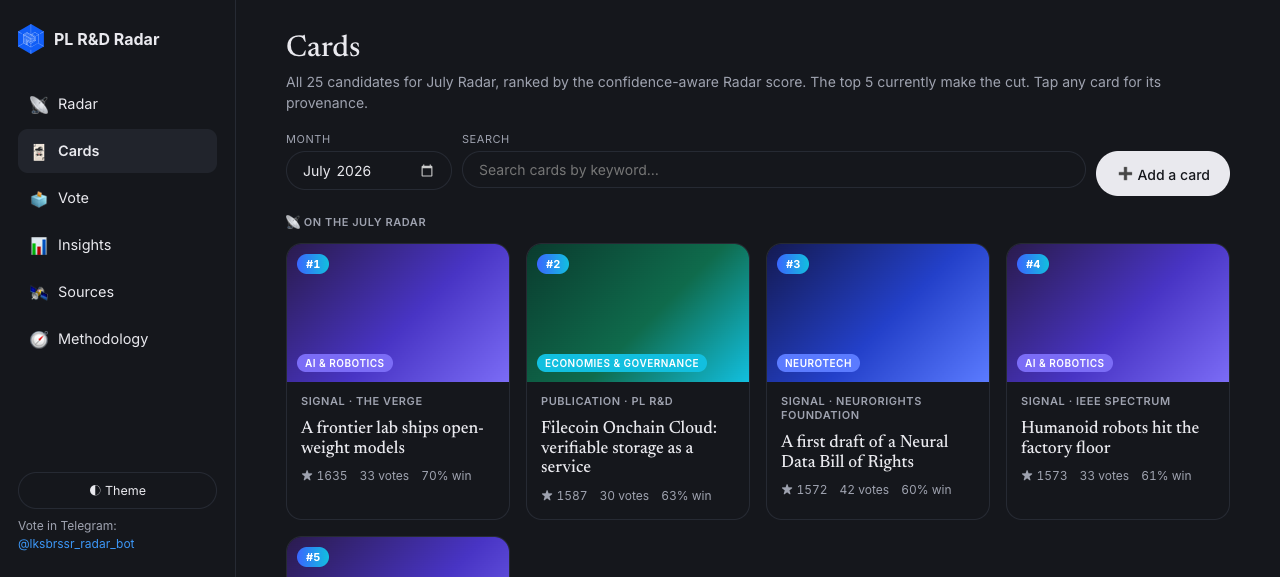
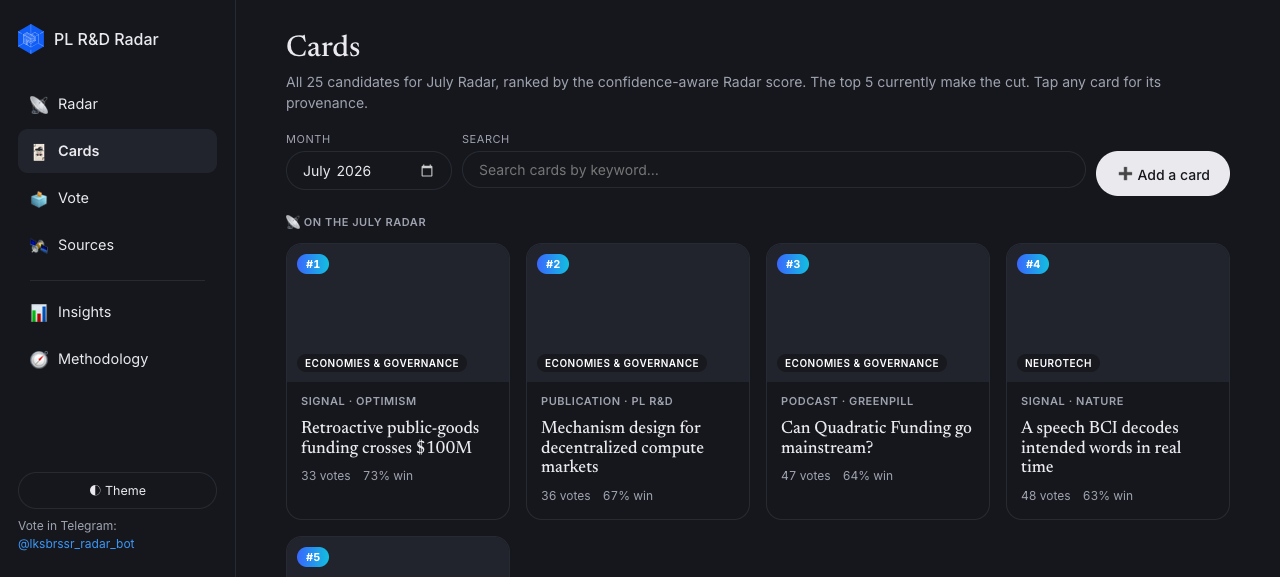
polish(web): sources/radar notices, nav order, cards & methodology cleanup
- Brand wordmark no longer bold.
- Nav: move Insights + Methodology below a subtle divider (less prominent).
- Sources: public-notice is plain text under the heading (no box/emoji/bold),
  shortened to 'Any content pulled from these sources may be surfaced to an
  external audience on the Radar.'; add a horizontal divider before proprietary
  sources; '# in pool' -> '# in current pool'.
- Sources: the 'Add a card or source' tile is now one full-width clickable
  banner (visually distinct from a source), dropped the 'duplicates are caught'
  line.
- Radar: 'Coming soon' lens notice is plain text, not a boxed button.
- Cards: remove focus-area color-coding (neutral media + area chip) and the
  unintuitive Elo (star) number; keep votes + win rate.
- Methodology deep-dive modals: stack tiles as full-width rows instead of two
  columns (fixes the 'settled' appearing to belong under 'balanced composition'
  in the cut modal); update stale copy that referenced the removed toggle.

diff --git a/src/http/dashboard.ts b/src/http/dashboard.ts
@@ -59,7 +59,7 @@ export function renderDashboard(): string {
     display:flex;flex-direction:column;gap:6px;position:sticky;top:0;height:100vh;}
   .brand{display:flex;align-items:center;gap:10px;margin-bottom:22px;}
   .brand .logo{width:26px;height:auto;flex:none;display:block;}
-  .brand .wm{font-weight:700;letter-spacing:0;font-size:16px;}
+  .brand .wm{font-weight:500;letter-spacing:0;font-size:16px;}
   .nav{display:flex;flex-direction:column;gap:3px;}
   .nav button{display:flex;align-items:center;gap:10px;width:100%;text-align:left;
     background:none;border:none;color:var(--ink);padding:10px 12px;border-radius:10px;
@@ -67,6 +67,7 @@ export function renderDashboard(): string {
   .nav button:hover{background:var(--gray-50);}
   .nav button.active{background:var(--gray-200);font-weight:600;}
   .nav .ic{width:18px;text-align:center;}
+  .navgap{height:1px;background:var(--line);margin:10px 12px 6px;}
   .hamb{display:none;margin-left:auto;background:none;border:1px solid var(--line);border-radius:10px;
     width:40px;height:40px;cursor:pointer;color:var(--ink);font-size:18px;line-height:1;
     align-items:center;justify-content:center;}
@@ -311,10 +312,12 @@ export function renderDashboard(): string {
     background:linear-gradient(180deg,rgba(255,255,255,.15),rgba(255,255,255,.35));color:var(--muted);font-size:12.5px;font-weight:600;}
   html.dark .locktile .lockover{background:linear-gradient(180deg,rgba(20,22,28,.15),rgba(20,22,28,.45));}
   .locktile .lockover .lk{font-size:20px;}
-  .addsrc{border:1.5px dashed var(--line);background:transparent;border-radius:16px;padding:18px 20px;display:flex;flex-direction:column;justify-content:center;}
+  .addsrc{display:block;width:100%;text-align:left;font-family:inherit;color:inherit;border:1.5px dashed var(--line);background:transparent;border-radius:16px;padding:20px 24px;margin:6px 0 2px;cursor:pointer;transition:border-color .12s,background .12s;}
+  .addsrc:hover{border-color:var(--muted);background:var(--gray-50);}
   .addsrc h3{font-size:18px;margin-bottom:6px;}
-  .addsrc p{font-size:13px;color:var(--muted);margin:0 0 14px;}
-  .addsrc .btn{align-self:flex-start;cursor:pointer;border:none;}
+  .addsrc p{font-size:13px;color:var(--muted);margin:0 0 14px;max-width:52ch;}
+  .addsrc .btn{display:inline-block;border:none;}
+  .srcdivider{border:none;border-top:1px solid var(--line);margin:30px 0 0;}
   /* cards view */
   .cardsec{margin-bottom:26px;}
   .cardsec .kicker{display:block;margin-bottom:12px;}
@@ -342,7 +345,7 @@ export function renderDashboard(): string {
   .mformula{font-family:ui-monospace,SFMono-Regular,Menlo,monospace;background:var(--gray-50);
     border:1px solid var(--line);border-radius:12px;padding:15px 18px;font-size:15px;overflow-x:auto;margin:14px 0;text-align:center;}
   .mformula b{color:var(--blue);font-weight:600;}
-  .mgrid{display:grid;grid-template-columns:repeat(auto-fit,minmax(220px,1fr));gap:14px;}
+  .mgrid{display:grid;grid-template-columns:1fr;gap:12px;}
   .mtile{background:var(--gray-50);border:1px solid var(--line);border-radius:16px;padding:16px 18px;}
   .mtile .ico{font-size:22px;margin-bottom:8px;}
   .mtile h4{font-size:16px;margin-bottom:5px;}
@@ -467,8 +470,9 @@ export function renderDashboard(): string {
       <button data-route="radar"><span class="ic">📡</span> Radar</button>
       <button data-route="cards"><span class="ic">🃏</span> Cards</button>
       <button data-route="vote"><span class="ic">🗳️</span> Vote</button>
-      <button data-route="data"><span class="ic">📊</span> Insights</button>
       <button data-route="sources"><span class="ic">🛰️</span> Sources</button>
+      <div class="navgap"></div>
+      <button data-route="data"><span class="ic">📊</span> Insights</button>
       <button data-route="method"><span class="ic">🧭</span> Methodology</button>
     </nav>
     <div class="side-foot">
@@ -596,7 +600,7 @@ function renderRadar(){
     '<div class="controls">'+
       '<div class="field"><label>Month</label><input type="month" id="selMonth" value="'+esc(state.edition)+'" min="'+esc(oldest)+'" max="'+esc(newest)+'"></div>'+
     '</div>'+
-    '<div class="soon"><span class="soon-ic">🔒</span><div><b>Coming soon</b> — filter the Radar for what people with a given profile (role &amp; interests) surfaced.</div></div>'+
+    '<p class="lead" style="margin-top:-6px">Coming soon — filter the Radar for what people with a given profile (role &amp; interests) surfaced.</p>'+
     cutToggle()+
     '<div id="radarMount"></div>'+
     '<p class="lead" style="margin-top:14px">Showing the top '+((state.radar&&state.radar.items.length)||0)+' of '+((state.radar&&state.radar.poolSize)||0)+' candidates'+(curEd.current?' still in the running this month.':' from that edition.')+'</p>'+
@@ -949,11 +953,11 @@ function renderSources(){
       var home = s.homepage ? '<a href="'+esc(s.homepage)+'" target="_blank" rel="noopener">Visit →</a>' : '<span></span>';
       return '<div class="srccard"><div class="top"><h3>'+esc(s.name)+'</h3><span class="badge-int badge-pub">public</span></div>'+
         '<p>'+esc(s.description)+'</p>'+
-        '<div class="foot">'+home+'<span class="n muted">'+s.cards+' in pool</span></div></div>';
+        '<div class="foot">'+home+'<span class="n muted">'+s.cards+' in current pool</span></div></div>';
     }).join('');
-    var add = '<div class="addsrc"><h3>➕ Add a card or source</h3>'+
-      '<p>Paste a link to anything — an article, a post, a paper — and let AI draft a card you review, or wire up a recurring feed. Duplicates are caught and flagged automatically.</p>'+
-      '<button class="btn" id="opensrc">Add to the Radar →</button></div>';
+    var add = '<button class="addsrc" id="opensrc"><h3>➕ Add a card or source</h3>'+
+      '<p>Paste a link to anything — an article, a post, a paper — and let AI draft a card you review, or wire up a recurring feed.</p>'+
+      '<span class="btn">Add to the Radar →</span></button>';
     // Blurred placeholders for the not-yet-unlocked proprietary/internal feeds.
     var lockTiles = [
       ['PL Capital', 'Portfolio & investment signals from across the PL network.'],
@@ -967,8 +971,10 @@ function renderSources(){
       '<h2 class="title">Sources</h2>'+
       '<p class="lead">Where candidate cards come from. Community contributions are welcome — <a href="'+esc(d.sourcesDir)+'" target="_blank" rel="noopener">browse them on GitHub</a>.</p>'+
       '<div class="srchead"><h3>Public sources</h3><span class="tag tag-pub">public</span></div>'+
-      '<div class="soon"><span class="soon-ic">🌐</span><div>Everything here is a <b>public</b> website — any content pulled from these sources <b>may be surfaced to an external audience</b> on the Radar.</div></div>'+
-      '<div class="srcgrid">'+cards+add+'</div>'+
+      '<p class="lead" style="margin-top:-6px">Any content pulled from these sources may be surfaced to an external audience on the Radar.</p>'+
+      '<div class="srcgrid">'+cards+'</div>'+
+      add+
+      '<hr class="srcdivider">'+
       '<div class="srchead"><h3>Proprietary sources</h3><span class="tag tag-prop">internal</span></div>'+
       '<p class="lead">Internal, non-public feeds. Their content stays inside the org — <b>Internal Radar coming soon</b>.</p>'+
       '<div class="srcgrid">'+lockTiles+'</div>';
@@ -1001,13 +1007,12 @@ function loadCards(){
   getJSON('/api/cards.json?edition='+encodeURIComponent(state.edition)).then(function(d){ state.cardsData=d; renderCardsGrid(); });
 }
 function cardTile(it){
-  var g=area(it.areaSlug);
   var media = it.image ? '<img src="'+esc(it.image)+'" loading="lazy" alt="" onerror="this.style.display=\'none\'">' : '<div class="ph"></div>';
-  var meta = '<span>★ '+it.rating+'</span><span>'+it.votes+' vote'+(it.votes===1?'':'s')+'</span>'+(it.winrate!=null?'<span>'+it.winrate+'% win</span>':'');
+  var meta = '<span>'+it.votes+' vote'+(it.votes===1?'':'s')+'</span>'+(it.winrate!=null?'<span>'+it.winrate+'% win</span>':'');
   return '<button class="tile" data-key="'+esc(it.key)+'">'+
-    '<div class="tile-media" style="background:'+g.g+'">'+media+
+    '<div class="tile-media">'+media+
       '<span class="rankbadge'+(it.inCut?' cut':'')+'">#'+it.rank+'</span>'+
-      '<span class="tile-area" style="background:'+g.c+'">'+esc(it.areaLabel)+'</span></div>'+
+      '<span class="tile-area" style="background:rgba(19,19,22,.62)">'+esc(it.areaLabel)+'</span></div>'+
     '<div class="tile-body"><span class="kicker">'+esc(it.type)+(it.source?' · '+esc(it.source):'')+'</span>'+
       '<h4>'+esc(it.title)+'</h4><div class="tile-meta">'+meta+'</div></div></button>';
 }
@@ -1108,7 +1113,7 @@ var METH = {
   cut: { title:'📡 What makes the cut',
     html:'<p>The top 5 by conservative score become the month\'s Radar. Two things shape that final set:</p>'+
       '<div class="mgrid">'+
-        '<div class="mtile"><div class="ico">⚖️</div><h4>Balanced composition</h4><p>Rather than five near-identical cards, we compose a <b>strong yet balanced</b> set — spreading across focus areas &amp; angles — but only ever reordering near the top, never promoting a weak card. Toggle <b>Balanced / By score</b> on the <a href="#radar">Radar</a>.</p></div>'+
+        '<div class="mtile"><div class="ico">⚖️</div><h4>Balanced composition</h4><p>Rather than five near-identical cards, we compose a <b>strong yet balanced</b> set — spreading across focus areas &amp; angles — but only ever reordering near the top, never promoting a weak card — this balanced cut is what the <a href="#radar">Radar</a> shows.</p></div>'+
         '<div class="mtile"><div class="ico">✅</div><h4>Is it settled?</h4><p>The #5 and #6 cards set the boundary. If their confidence intervals no longer overlap, the cut is <b>settled</b>; if they overlap, the last spot is a <b>toss-up</b> and more votes decide it.</p></div>'+
       '</div>'+
       '<div class="mgrid" style="margin-top:14px">'+
@@ -1520,7 +1525,7 @@ function fallbackCopy(t){ var ta=document.createElement('textarea'); ta.value=t;
 // ---- Modal ----
 function openCard(c){
   if(!c) return;
-  var media = el('m-media'); media.style.background=area(c.areaSlug).g;
+  var media = el('m-media'); media.style.background='var(--gray-200)';
   media.querySelectorAll('img,.ph').forEach(function(n){n.remove();});
   if(c.image){ var img=document.createElement('img'); img.src=c.image; media.insertBefore(img,media.firstChild); }
   el('m-kicker').textContent = c.type + (c.source?' · '+c.source:'');